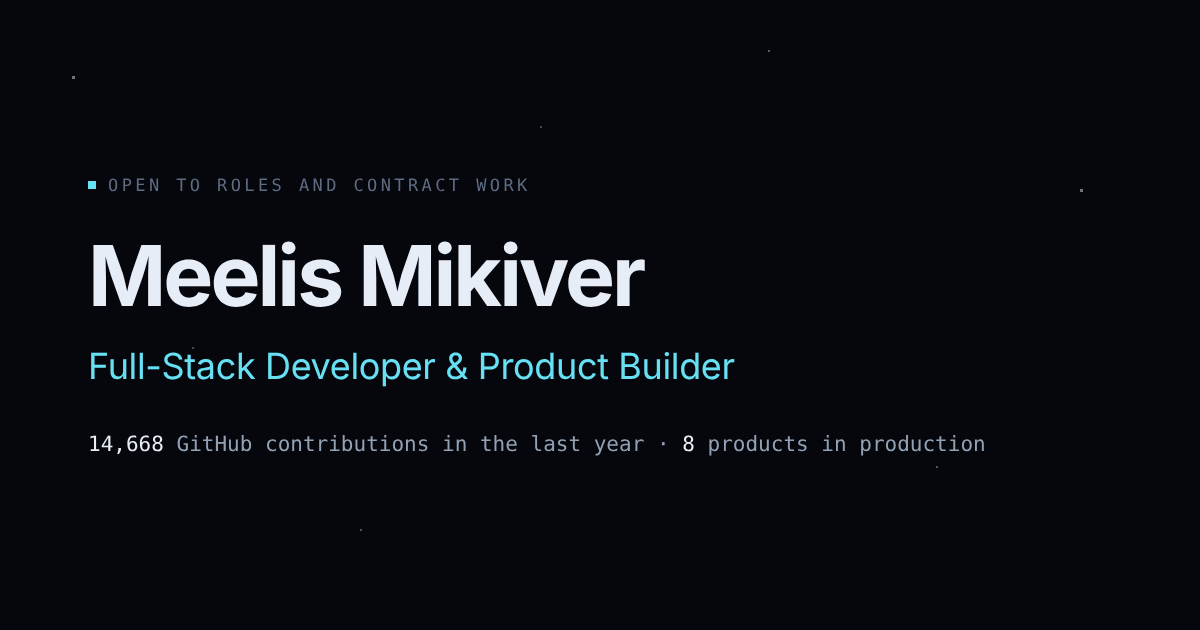
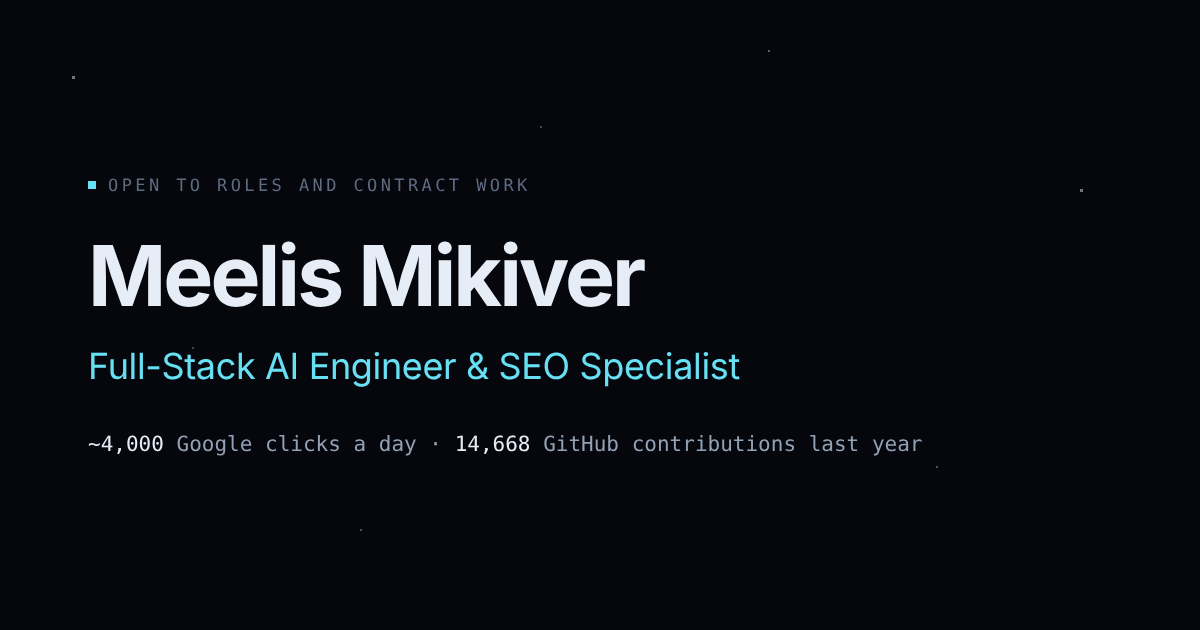
Redo hero and stack: Full-Stack AI Engineer & SEO Specialist
Hero: new title (the owner's pick: "AI Engineer" is the phrase
recruiters search) and a line covering what the old one left out,
customer apps and admin platforms, plus ranking on search engines and
LLMs.

Accuracy fixes:
- AI Angels is team work: the "solo" claims go, and the AI Angels and
  Studio cards say "Lead developer, 3-person team"
- AI Angels card now describes the platform as it runs (web plus a
  Telegram bot per companion); the Mini App and Stars/TON payments it
  used to claim are legacy there
- AI section: 10,000+ tools (was 5,700+)

SEO proof on the cards (owner's Search Console figures): aiangels.io
132,000 pages indexed and ~4,000 Google clicks a day; buybitcoinsmart
50,000 programmatic pages in 10 languages, ~140 clicks a day three
months after relaunch with zero paid SEO.

Stack: AI Engineering and SEO & Growth become featured groups above a
3x2 grid (Frontend, Backend & Data, Payments & Integrations, Realtime
3D & Media, Web3 & Telegram, Platform & Ops); every item is backed by
code in the project repos. Meta description, OG card and admin card
re-rendered to match.

Claude-Session: https://claude.ai/code/session_01EvvJYJzchcxCheqYGuQ4Rr

Changed region(s): [[0.2158, 0.5429, 0.6167, 0.6032], [0.0925, 0.6937, 0.8325, 0.7238]]

diff --git a/lib/skills.ts b/lib/skills.ts
@@ -1,37 +1,93 @@
-export type SkillGroup = { name: string; items: string[] };
+/** `featured` groups are the headline skills: rendered wide, above the rest. */
+export type SkillGroup = { name: string; items: string[]; featured?: boolean };
 
+/**
+ * Every item is backed by code in one of the eight project repos. Keep the
+ * regular (non-featured) groups at a multiple of three so the grid never
+ * leaves an orphan tile.
+ */
 export const SKILL_GROUPS: SkillGroup[] = [
   {
-    name: "Frontend",
-    items: ["TypeScript", "React 19", "Next.js 15/16", "Tailwind CSS 4", "App Router at 10k+ pages", "SEO / structured data"],
-  },
-  {
-    name: "Realtime & 3D",
-    items: ["Three.js", "Colyseus multiplayer", "Deterministic physics", "WebCodecs video export", "Canvas / WebGL"],
-  },
-  {
-    name: "Data & Backend",
-    items: ["PostgreSQL", "Supabase", "Neon", "Drizzle", "Prisma", "Upstash Redis", "RLS security design"],
-  },
-  {
     name: "AI Engineering",
-    items: ["Claude API & Agent SDK", "DeepSeek", "Vercel AI SDK", "Firecrawl", "LLM pipeline design", "Prompt & eval discipline"],
+    featured: true,
+    items: [
+      "Agentic coding with Claude Code, Cursor, Codex and Grok",
+      "LLM content pipelines with judge, writer and refuter passes",
+      "Claude, DeepSeek, xAI Grok and Mistral via Vercel AI SDK",
+      "Streaming chat with model A/B arms and provider failover",
+      "AI image and video generation: Seedream, Seedance, Kling, Grok Imagine",
+      "Voice AI: Deepgram, ElevenLabs, realtime calls",
+      "Agent APIs and MCP servers for AI-written content",
+    ],
+  },
+  {
+    name: "SEO & Growth",
+    featured: true,
+    items: [
+      "Programmatic SEO at 130k+ indexed pages",
+      "International SEO: 96 locales, reciprocal hreflang",
+      "Sharded sitemap indexes, video and image sitemaps",
+      "JSON-LD structured data across 15+ schema types",
+      "IndexNow, llms.txt and answer-engine optimization",
+      "Search Console and Semrush keyword pipelines",
+      "Internal-linking engines and thin-content gates",
+    ],
+  },
+  {
+    name: "Frontend",
+    items: ["TypeScript", "React 19", "Next.js 15/16 App Router", "Tailwind CSS", "next-intl", "Radix and shadcn/ui", "Recharts and deck.gl"],
+  },
+  {
+    name: "Backend & Data",
+    items: [
+      "PostgreSQL",
+      "Supabase (Auth, RLS, RPCs)",
+      "Prisma",
+      "Drizzle and Neon",
+      "Upstash Redis",
+      "Vercel crons and background drains",
+    ],
+  },
+  {
+    name: "Payments & Integrations",
+    items: [
+      "Verotel and FlowGuard cards",
+      "NOWPayments crypto",
+      "Telegram Stars and TON",
+      "Resend and OneSignal",
+      "PostHog analytics",
+      "Firecrawl data harvesting",
+    ],
+  },
+  {
+    name: "Realtime, 3D & Media",
+    items: [
+      "Three.js",
+      "Colyseus authoritative servers",
+      "Deterministic physics with server re-simulation",
+      "WebCodecs video rendering",
+      "ffmpeg video pipelines",
+    ],
   },
   {
     name: "Web3 & Telegram",
     items: [
       "Telegram Mini Apps",
       "Telegram bots (Bot API)",
-      "Telegram Stars & TON payments",
-      "Solana web3.js",
+      "Solana and Sign-In With Solana",
       "Metaplex NFTs",
-      "Wallet auth (ed25519)",
-      "On-chain event processing",
+      "On-chain event automation",
     ],
   },
   {
     name: "Platform & Ops",
-    items: ["Vercel at scale", "ISR / build economics", "GitHub Actions", "Playwright", "i18n architecture", "Web push / PWA"],
+    items: [
+      "Vercel at scale (ISR and build economics)",
+      "GitHub Actions incl. a self-hosted GPU runner",
+      "Playwright and Vitest",
+      "Railway WebSocket relays",
+      "Admin dashboards and internal tools",
+    ],
   },
 ];
 
@@ -51,7 +107,7 @@ export const AI_HIGHLIGHTS: AiHighlight[] = [
   },
   {
     title: "LLM pipelines in production",
-    body: "Content systems where models research, write and attack each other's work before anything ships: a judge, writer and refuter pipeline sourcing every fact to a quote, review enrichment across 5,700+ tools, and ten-language translation with independent refuters.",
+    body: "Content systems where models research, write and attack each other's work before anything ships: a judge, writer and refuter pipeline sourcing every fact to a quote, review enrichment across 10,000+ tools, and ten-language translation with independent refuters.",
     receipts: ["Claude", "DeepSeek", "Firecrawl", "judge / writer / refuter"],
   },
   {

diff --git a/lib/projects.ts b/lib/projects.ts
@@ -10,6 +10,8 @@ export type Project = {
   /** 2-3 headline metrics, mono value + short label. */
   metrics: ProjectMetric[];
   stack: string[];
+  /** Set for team projects, shown under the name; absent means solo. */
+  role?: string;
   /** Lead projects render large with a video slot. */
   lead?: boolean;
   /** Gameplay video: click-to-play YouTube embed over the screenshot. */
@@ -70,9 +72,9 @@ export const PROJECTS: Project[] = [
     pitch: "How to buy bitcoin in every country on earth, in ten languages, with a Claude-powered assistant.",
     url: "https://www.buybitcoinsmart.com",
     metrics: [
-      { value: "232", label: "country guides" },
-      { value: "10", label: "languages, translated by refuter-checked LLM pipelines" },
-      { value: "10,500", label: "static pages per build" },
+      { value: "50,000", label: "programmatic pages in 10 languages" },
+      { value: "232", label: "country guides, translated by refuter-checked LLM pipelines" },
+      { value: "~140/day", label: "Google clicks three months after relaunch, zero paid SEO" },
     ],
     stack: ["Next.js", "Tailwind", "Supabase", "Claude", "i18n"],
   },
@@ -91,13 +93,16 @@ export const PROJECTS: Project[] = [
   {
     slug: "aiangels",
     name: "AI Angels",
-    pitch: "AI companion platform running as both a website and a Telegram Mini App, paid in Stars and TON.",
+    pitch:
+      "AI companion platform on the web and Telegram, with a bot per companion, voice calls and streaming chat across 96 languages.",
     url: "https://www.aiangels.io",
+    role: "Lead developer, 3-person team",
     metrics: [
-      { value: "96", label: "locale catalogs" },
-      { value: "2", label: "payment rails: Telegram Stars and TON" },
+      { value: "132,000", label: "pages indexed by Google" },
+      { value: "~4,000", label: "Google clicks a day" },
+      { value: "96", label: "locales of programmatic landing pages" },
     ],
-    stack: ["Next.js", "Telegram Mini Apps", "Prisma", "Supabase", "AI SDK", "Deepgram", "TON"],
+    stack: ["Next.js", "Supabase", "Prisma", "Vercel AI SDK", "xAI Grok", "Deepgram", "Telegram bots"],
   },
   {
     slug: "aiangels-admin",
@@ -105,9 +110,10 @@ export const PROJECTS: Project[] = [
     pitch:
       "Internal AI image studio that keeps generated characters visually consistent across providers and scenes.",
     url: null,
+    role: "Lead developer, 3-person team",
     metrics: [
+      { value: "477", label: "admin API routes and 16 crons" },
       { value: "1,844", label: "images across 35 consistent characters" },
-      { value: "76", label: "admin API route groups" },
     ],
     stack: ["Next.js", "Seedream", "Supabase", "ffmpeg", "deck.gl"],
   },

diff --git a/components/skills-section.tsx b/components/skills-section.tsx
@@ -1,23 +1,37 @@
-import { SKILL_GROUPS } from "@/lib/skills";
+import { SKILL_GROUPS, type SkillGroup } from "@/lib/skills";
+
+function Group({ group }: { group: SkillGroup }) {
+  return (
+    <div className={`reveal border-t pt-5 ${group.featured ? "border-line-strong" : "border-line"}`}>
+      <h3 className={`font-mono text-accent ${group.featured ? "text-base" : "text-sm"}`}>{group.name}</h3>
+      <ul className={`mt-4 space-y-2 ${group.featured ? "text-[0.9375rem] text-ink/85" : "text-sm text-muted"}`}>
+        {group.items.map((item) => (
+          <li key={item} className="leading-relaxed">
+            {item}
+          </li>
+        ))}
+      </ul>
+    </div>
+  );
+}
 
 export function SkillsSection() {
+  const featured = SKILL_GROUPS.filter((g) => g.featured);
+  const rest = SKILL_GROUPS.filter((g) => !g.featured);
+
   return (
     <section id="stack" aria-labelledby="stack-heading" className="mx-auto max-w-6xl px-4 py-24 sm:px-6 sm:py-32">
       <h2 id="stack-heading" className="text-3xl font-semibold tracking-tight text-ink sm:text-4xl">
         Stack
       </h2>
-      <div className="mt-12 grid gap-x-10 gap-y-12 sm:grid-cols-2 lg:grid-cols-3">
-        {SKILL_GROUPS.map((group) => (
-          <div key={group.name} className="border-t border-line pt-5">
-            <h3 className="font-mono text-sm text-accent">{group.name}</h3>
-            <ul className="mt-4 space-y-2">
-              {group.items.map((item) => (
-                <li key={item} className="text-sm leading-relaxed text-muted">
-                  {item}
-                </li>
-              ))}
-            </ul>
-          </div>
+      <div className="mt-12 grid gap-x-10 gap-y-12 lg:grid-cols-2">
+        {featured.map((group) => (
+          <Group key={group.name} group={group} />
+        ))}
+      </div>
+      <div className="mt-14 grid gap-x-10 gap-y-12 sm:grid-cols-2 lg:grid-cols-3">
+        {rest.map((group) => (
+          <Group key={group.name} group={group} />
         ))}
       </div>
     </section>

diff --git a/components/project-card.tsx b/components/project-card.tsx
@@ -45,12 +45,13 @@ function CardBody({ project, lead }: { project: Project; lead?: boolean }) {
           {project.url ? host(project.url) : "internal"}
         </span>
       </div>
+      {project.role ? <p className="mt-1.5 font-mono text-xs text-accent-dim">{project.role}</p> : null}
       <p className="mt-2 text-sm leading-relaxed text-muted">{project.pitch}</p>
       <dl className="mt-5 space-y-2">
         {project.metrics.map((metric) => (
           <div key={metric.label} className="flex items-baseline gap-3">
             <dt className="sr-only">{metric.label}</dt>
-            <dd className="nums min-w-16 shrink-0 text-sm text-accent">{metric.value}</dd>
+            <dd className="nums min-w-20 shrink-0 text-sm text-accent">{metric.value}</dd>
             <dd className="text-sm text-muted">{metric.label}</dd>
           </div>
         ))}

diff --git a/components/hero.tsx b/components/hero.tsx
@@ -19,11 +19,12 @@ export function Hero() {
           </span>
         </h1>
         <p
-          className="enter mt-6 max-w-[52ch] text-base leading-relaxed text-muted sm:text-lg"
+          className="enter mt-6 max-w-[58ch] text-base leading-relaxed text-muted sm:text-lg"
           style={{ "--enter-i": 2 } as React.CSSProperties}
         >
-          I design, build and run production web products end to end: games,
-          directories and AI pipelines, shipped solo.
+          I ship full-stack products with agentic AI: customer apps, admin
+          platforms, LLM pipelines and 3D games. Then I rank them on search
+          engines and LLMs so people find them.
         </p>
         <div className="enter mt-10 flex flex-wrap gap-4" style={{ "--enter-i": 3 } as React.CSSProperties}>
           <a

diff --git a/lib/site-config.ts b/lib/site-config.ts
@@ -1,9 +1,9 @@
 export const SITE = {
   name: "Meelis Mikiver",
   handle: "mlsmi",
-  role: "Full-Stack Developer & Product Builder",
+  role: "Full-Stack AI Engineer & SEO Specialist",
   description:
-    "Full-stack developer and product builder. 14,000+ GitHub contributions in the last year across eight production products: games, directories and AI pipelines, designed, built and run solo.",
+    "Full-stack AI engineer and SEO specialist. Ships customer apps, admin platforms, LLM pipelines and games with agentic AI, then ranks them: 130k+ pages indexed, ~4,000 Google clicks a day.",
   githubUrl: "https://github.com/mlsmi",
   linkedinUrl: "https://ee.linkedin.com/in/meelismikiver",
   /** GitHub account creation date, for the years-on-GitHub stat. */

diff --git a/scripts/mock-og.html b/scripts/mock-og.html
@@ -33,8 +33,8 @@
   <div class="wrap">
     <span class="label"><span class="dot"></span>Open to roles and contract work</span>
     <h1>Meelis Mikiver</h1>
-    <div class="role">Full-Stack Developer &amp; Product Builder</div>
-    <div class="line"><b>14,668</b> GitHub contributions in the last year · <b>8</b> products in production</div>
+    <div class="role">Full-Stack AI Engineer &amp; SEO Specialist</div>
+    <div class="line"><b>~4,000</b> Google clicks a day · <b>14,668</b> GitHub contributions last year</div>
   </div>
 </body>
 </html>

diff --git a/components/projects-section.tsx b/components/projects-section.tsx
@@ -11,8 +11,8 @@ export function ProjectsSection() {
         Selected work
       </h2>
       <p className="mt-4 max-w-[60ch] text-base leading-relaxed text-muted">
-        Eight products in production. Every one designed, built, deployed and
-        operated by me.
+        Eight products in production. Six built solo, end to end. AI Angels and
+        its studio: lead developer in a three-person team.
       </p>
       <div className="mt-12 space-y-6">
         {leads.map((project, i) => (

diff --git a/scripts/mock-admin-card.html b/scripts/mock-admin-card.html
@@ -45,7 +45,7 @@
     <div class="stats">
       <div class="stat"><b>1,844</b><span>images generated</span></div>
       <div class="stat"><b>35</b><span>consistent characters</span></div>
-      <div class="stat"><b>76</b><span>admin API route groups</span></div>
+      <div class="stat"><b>477</b><span>admin API routes</span></div>
     </div>
   </div>
 </body>
